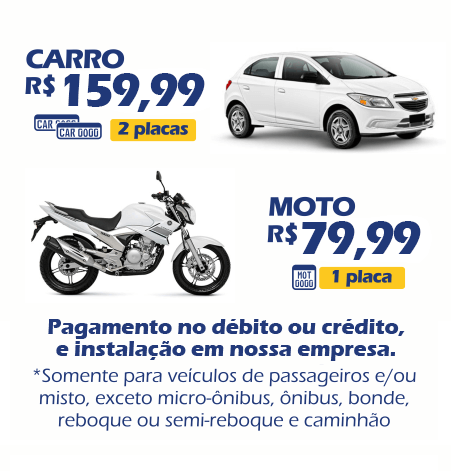
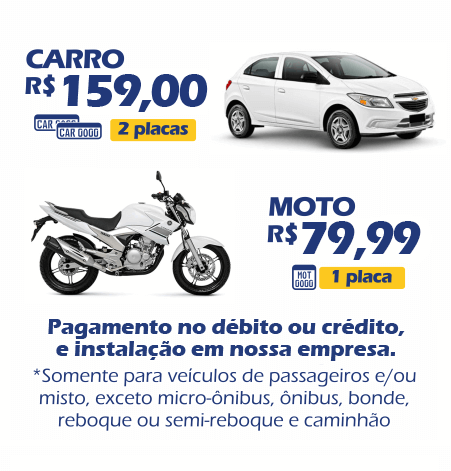
update: plate (car) price

Changed region(s): [[0.1863, 0.1486, 0.4656, 0.2378], [0.1552, 0.1486, 0.1863, 0.1783], [0.1242, 0.1783, 0.1552, 0.2081]]

diff --git a/src/views/Home.js b/src/views/Home.js
@@ -34,7 +34,7 @@ const Home = () => {
           {/* <Image source={announcement} alt="" /> */}
           <Image
             source={width <= 700 ? bannerMobile : banner}
-            alt="Promoção válida somente para agendamento de emplacamento pelo site: carros (2 placas) R$159,99 e moto (1 placa) R$79,99. Nota: somente para veículos de passageiros e/ou misto, exceto micro-ônibus, ônibus, bonde, reboque ou semi-reboque e caminhão."
+            alt="Promoção válida somente para agendamento de emplacamento pelo site: carros (2 placas) R$159,00 e moto (1 placa) R$79,99. Nota: somente para veículos de passageiros e/ou misto, exceto micro-ônibus, ônibus, bonde, reboque ou semi-reboque e caminhão."
           />
         </Link>
       </aside>

diff --git a/src/views/Appointment/AgendamentoBoleto.js b/src/views/Appointment/AgendamentoBoleto.js
@@ -34,7 +34,7 @@ const AgendamentoBoleto = () => {
 
   /** Essas alterações de valor são TEMPORÁRIAS e DEVEM SER REMOVIDAS após a PANDEMIA */
   var extra_discount = 0;
-  var plate_value = 199.99;
+  var plate_value = 199.0;
 
   /** Essas alterações de valor são TEMPORÁRIAS e DEVEM SER REMOVIDAS após a PANDEMIA */
   if (spot.freetax === 1 && subtotal.subcategory >= plate_value) {

diff --git a/src/views/Appointment/AgendamentoDebito.js b/src/views/Appointment/AgendamentoDebito.js
@@ -39,7 +39,7 @@ const AgendamentoDebito = () => {
 
   /** Essas alterações de valor são TEMPORÁRIAS e DEVEM SER REMOVIDAS após a PANDEMIA */
   var extra_discount = 0;
-  var plate_value = 199.99;
+  var plate_value = 199.0;
 
   /** Essas alterações de valor são TEMPORÁRIAS e DEVEM SER REMOVIDAS após a PANDEMIA */
   if (spot.freetax === 1 && subtotal.subcategory >= plate_value) {

diff --git a/src/views/Appointment/AgendamentoCard.js b/src/views/Appointment/AgendamentoCard.js
@@ -33,7 +33,7 @@ const AgendamentoCard = () => {
 
   /** Essas alterações de valor são TEMPORÁRIAS e DEVEM SER REMOVIDAS após a PANDEMIA */
   var extra_discount = 0;
-  var plate_value = 199.99;
+  var plate_value = 199.0;
 
   /** Essas alterações de valor são TEMPORÁRIAS e DEVEM SER REMOVIDAS após a PANDEMIA */
   if (spot.freetax === 1 && subtotal.subcategory >= plate_value) {
